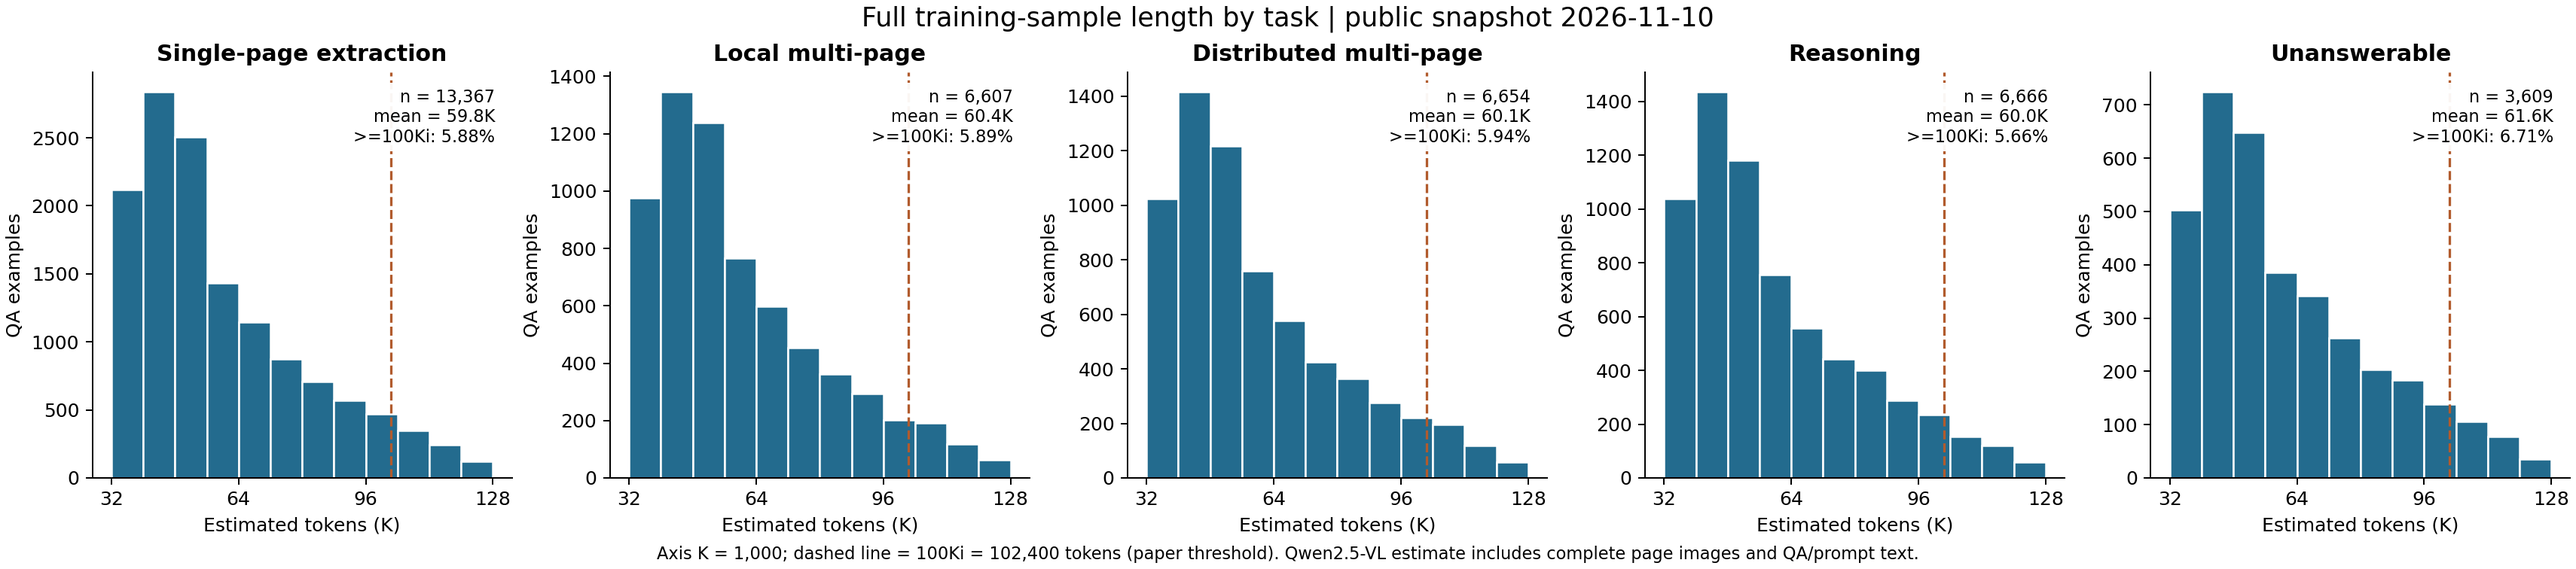
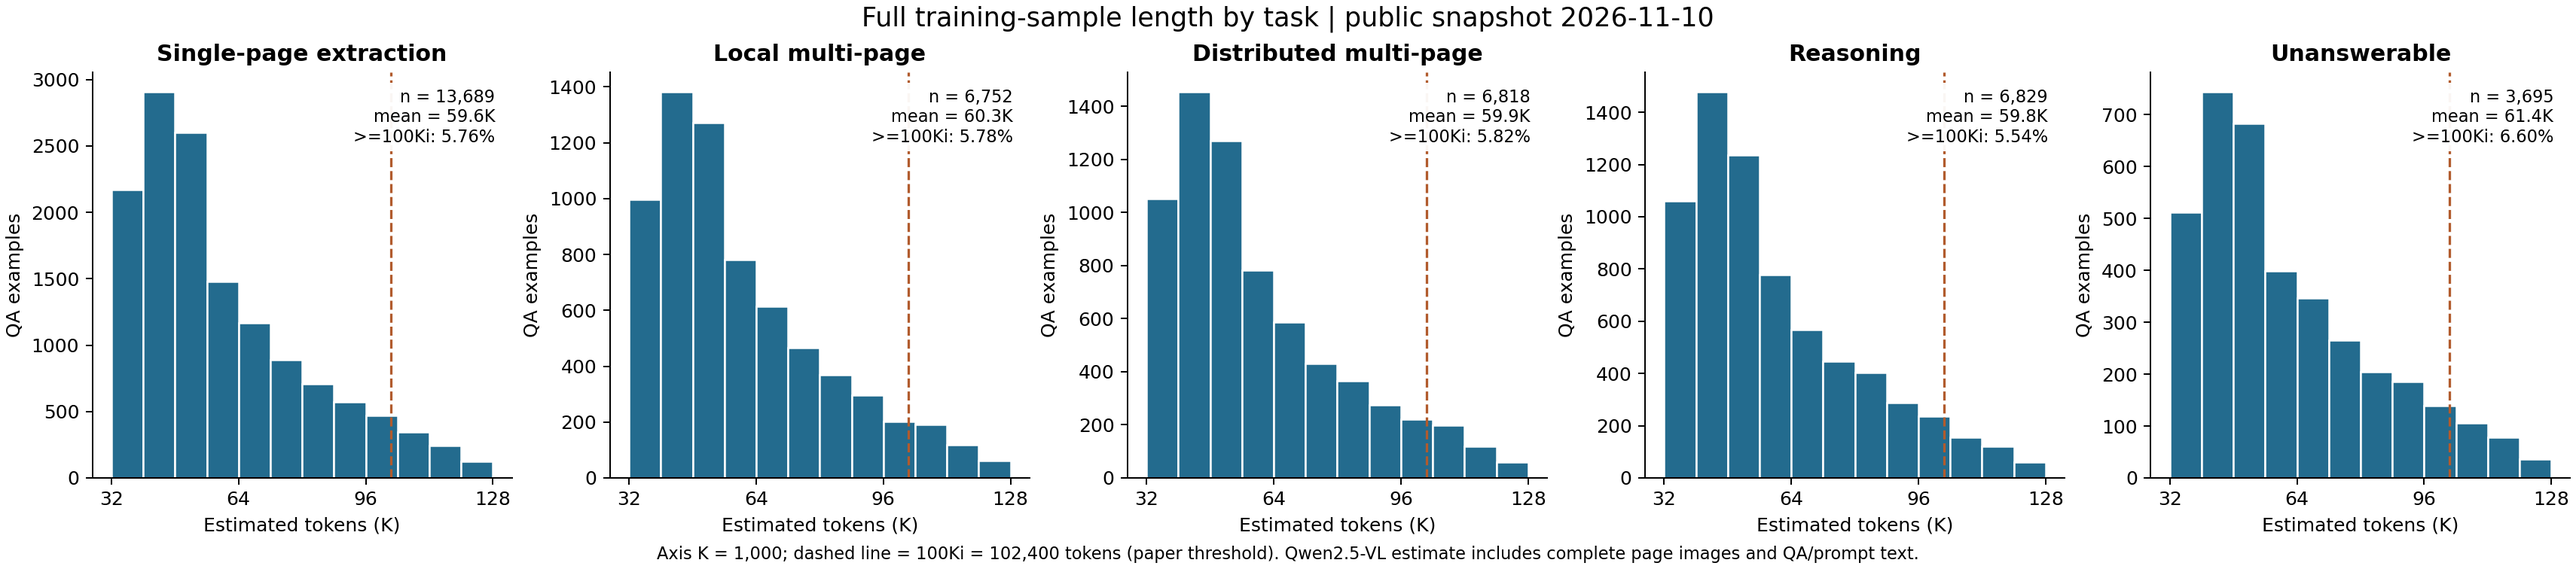
Update public corpus statistics to 2.267B measured tokens

diff --git a/docs/public_dataset.md b/docs/public_dataset.md
@@ -13,26 +13,26 @@ This page describes the admitted public snapshot identified below. It is a separ
 The manuscript defines binary prefixes (K=1024, B=2^30). Public tables use decimal K=1,000 and B=1,000,000,000; the >=100Ki statistic uses 102,400 to match the paper threshold. Exact raw counts and per-document labels are published with the dataset.
 
 <!-- PUBLIC_CORPUS_STATS_START -->
-**Public snapshot (2026-11-10): 36,903 QA examples, 6,949 source PDFs, 159,098 unique page images, and 2,220,596,718 estimated training tokens (approximately 2.221B).**
+**Public snapshot (2026-11-10): 37,783 QA examples, 7,450 source PDFs, 169,520 unique page images, and 2,266,988,794 estimated training tokens (approximately 2.267B).**
 
-[This published snapshot](https://huggingface.co/datasets/ZhaoweiWang/MMProLong-Data-Public/tree/01fedbbd569eb5d85a049d7fc96de157c3b404a0); [latest data](https://huggingface.co/datasets/ZhaoweiWang/MMProLong-Data-Public).
+[This published snapshot](https://huggingface.co/datasets/ZhaoweiWang/MMProLong-Data-Public/tree/e3038ec88dcd8939afb35d8c41555d52ef2673d3); [latest data](https://huggingface.co/datasets/ZhaoweiWang/MMProLong-Data-Public).
 
 ### Corpus scale
 
 | Statistic | Public snapshot value |
 | --- | --- |
-| Admitted unique PDFs | 6,949 |
+| Admitted unique PDFs | 7,450 |
 | Document family | Public research papers |
-| Unique rendered page images | 159,098 |
-| Document pages: mean / median | 22.90 / 21 |
-| Document pages: range / 5th-95th percentile | 14-50 / 14-40 |
-| Admitted QA examples | 36,903 |
-| Estimated training tokens | 2,220,596,718 (2.221B) |
-| Per-QA tokens: mean / median | 60.174K / 53.313K |
+| Unique rendered page images | 169,520 |
+| Document pages: mean / median | 22.75 / 21 |
+| Document pages: range / 5th-95th percentile | 14-50 / 14-39 |
+| Admitted QA examples | 37,783 |
+| Estimated training tokens | 2,266,988,794 (2.267B) |
+| Per-QA tokens: mean / median | 60.000K / 53.296K |
 | Observed token range | 33,547-125,503 |
-| At least 100,000 tokens | 2,609 (7.07%) |
-| At least 100Ki = 102,400 tokens (paper threshold) | 2,189 (5.93%) |
-| Page references across all QA contexts | 874,074 |
+| At least 100,000 tokens | 2,618 (6.93%) |
+| At least 100Ki = 102,400 tokens (paper threshold) | 2,198 (5.82%) |
+| Page references across all QA contexts | 892,361 |
 
 ### Document sources
 
@@ -40,7 +40,7 @@ The manuscript defines binary prefixes (K=1024, B=2^30). Public tables use decim
 | --- | --- |
 | arxiv | 4,386 |
 | elife | 20 |
-| plos | 2,543 |
+| plos | 3,044 |
 
 Tokens are the stored Qwen2.5-VL serialized-sample estimate, including full page-image context and QA/prompt text. A PDF used by several questions contributes its context repeatedly to the training-token total. This is not a count of unique-text tokens or billed API tokens. Page images are physically stored once per document.
 
@@ -50,12 +50,12 @@ Tokens are the stored Qwen2.5-VL serialized-sample estimate, including full page
 
 | Task | QA | Avg. pages | Avg. K tokens | B tokens | Pages | K-token range | >=100Ki |
 | --- | --- | --- | --- | --- | --- | --- | --- |
-| `single` | 13,367 | 23.55 | 59.81 | 0.799 | 14-50 | 33.80-125.13 | 5.88% |
-| `multi_local` | 6,607 | 23.76 | 60.44 | 0.399 | 14-50 | 33.85-125.50 | 5.89% |
-| `multi_distributed` | 6,654 | 23.63 | 60.08 | 0.400 | 14-50 | 33.84-125.29 | 5.94% |
-| `reasoning` | 6,666 | 23.62 | 59.98 | 0.400 | 14-50 | 33.55-125.11 | 5.66% |
-| `unanswerable` | 3,609 | 24.25 | 61.56 | 0.222 | 14-50 | 33.79-125.09 | 6.71% |
-| **Total** | 36,903 | 23.69 | 60.17 | 2.221 | 14-50 | 33.55-125.50 | 5.93% |
+| `single` | 13,689 | 23.49 | 59.64 | 0.816 | 14-50 | 33.80-125.13 | 5.76% |
+| `multi_local` | 6,752 | 23.72 | 60.33 | 0.407 | 14-50 | 33.85-125.50 | 5.78% |
+| `multi_distributed` | 6,818 | 23.55 | 59.87 | 0.408 | 14-50 | 33.84-125.29 | 5.82% |
+| `reasoning` | 6,829 | 23.55 | 59.78 | 0.408 | 14-50 | 33.55-125.11 | 5.54% |
+| `unanswerable` | 3,695 | 24.18 | 61.38 | 0.227 | 14-50 | 33.79-125.09 | 6.60% |
+| **Total** | 37,783 | 23.62 | 60.00 | 2.267 | 14-50 | 33.55-125.50 | 5.82% |
 
 `K = 1,000`, `B = 1,000,000,000`; `100Ki = 102,400` tokens. Average pages in this table are **QA-weighted**, whereas the corpus-scale document average counts each PDF once. The two multi-page rows may be combined for comparison with the paper's broader extraction category. Unanswerable QA is an additional public-data task. Exact values, quantiles, and the combined task grouping are in [`metadata/statistics.json`](https://huggingface.co/datasets/ZhaoweiWang/MMProLong-Data-Public/blob/main/metadata/statistics.json).
 
@@ -65,17 +65,17 @@ Tokens are the stored Qwen2.5-VL serialized-sample estimate, including full page
 
 | Primary domain | Documents | Document share | QA | QA share |
 | --- | --- | --- | --- | --- |
-| Physics | 1,322 | 19.02% | 9,284 | 25.16% |
-| Mathematics | 1,231 | 17.71% | 8,816 | 23.89% |
-| Computer Science | 1,209 | 17.40% | 9,082 | 24.61% |
-| Biology | 631 | 9.08% | 1,316 | 3.57% |
-| Medicine | 573 | 8.25% | 1,415 | 3.83% |
-| Social Science | 544 | 7.83% | 1,478 | 4.01% |
-| Economics | 542 | 7.80% | 1,481 | 4.01% |
-| Engineering | 531 | 7.64% | 2,972 | 8.05% |
-| Earth Science | 346 | 4.98% | 960 | 2.60% |
-| Language and Literature | 12 | 0.17% | 43 | 0.12% |
-| Other | 8 | 0.12% | 56 | 0.15% |
+| Physics | 1,322 | 17.74% | 9,284 | 24.57% |
+| Mathematics | 1,235 | 16.58% | 8,823 | 23.35% |
+| Computer Science | 1,229 | 16.50% | 9,119 | 24.14% |
+| Biology | 716 | 9.61% | 1,457 | 3.86% |
+| Medicine | 659 | 8.85% | 1,561 | 4.13% |
+| Economics | 638 | 8.56% | 1,651 | 4.37% |
+| Social Science | 636 | 8.54% | 1,640 | 4.34% |
+| Engineering | 629 | 8.44% | 3,153 | 8.35% |
+| Earth Science | 365 | 4.90% | 994 | 2.63% |
+| Language and Literature | 12 | 0.16% | 43 | 0.11% |
+| Other | 9 | 0.12% | 58 | 0.15% |
 
 Document and QA shares differ because historical phases generated different numbers of questions per PDF. Domain labels describe the source PDF, not a separate topic inferred for each question.
 
@@ -83,21 +83,21 @@ Document and QA shares differ because historical phases generated different numb
 
 | Answer format | QA | Share |
 | --- | --- | --- |
-| Integer | 5,549 | 15.04% |
-| Float | 2,265 | 6.14% |
-| List | 12,582 | 34.09% |
-| String | 12,898 | 34.95% |
-| Unanswerable | 3,609 | 9.78% |
+| Integer | 5,668 | 15.00% |
+| Float | 2,423 | 6.41% |
+| List | 12,928 | 34.22% |
+| String | 13,069 | 34.59% |
+| Unanswerable | 3,695 | 9.78% |
 
-There are **33,294 answerable** and **3,609 unanswerable** QA examples. The observed necessary-evidence page counts are: 0 pages: 3,609, 1 pages: 16,799, 2 pages: 11,123, 3 pages: 4,250, 4 pages: 1,115, 5 pages: 5, 6 pages: 1, 7 pages: 1.
+There are **34,088 answerable** and **3,695 unanswerable** QA examples. The observed necessary-evidence page counts are: 0 pages: 3,695, 1 pages: 17,198, 2 pages: 11,408, 3 pages: 4,329, 4 pages: 1,145, 5 pages: 5, 6 pages: 2, 7 pages: 1.
 
 <details>
 <summary>Observed QA count per source document</summary>
 
 | QA per document | Documents |
 | --- | --- |
-| 1 | 705 |
-| 2 | 3,837 |
+| 1 | 827 |
+| 2 | 4,216 |
 | 6 | 1 |
 | 8 | 1 |
 | 9 | 7 |
@@ -115,8 +115,8 @@ The 20-QA documents belong to the initial pilot; the two-QA limit applies to the
 | Recorded method | QA |
 | --- | --- |
 | legacy_full_document | 32,432 |
-| released_prompt_window_v1 | 2,799 |
-| document_tool_agent_v1 | 1,672 |
+| released_prompt_window_v1 | 3,347 |
+| document_tool_agent_v1 | 2,004 |
 
 ### Domain-label provenance
 
@@ -125,18 +125,18 @@ The 20-QA documents belong to the initial pilot; the two-QA limit applies to the
 | majority of full-context generator domain labels | 4,330 |
 | arXiv primary category mapping | 113 |
 | manual primary-topic classification for validated pilot batches | 9 |
-| majority of independent full-document verifier topic labels | 2,432 |
-| Crossref subject-query sampling; provisional until generator topic vote | 65 |
+| majority of independent full-document verifier topic labels | 2,921 |
+| Crossref subject-query sampling; provisional until generator topic vote | 77 |
 
 ## Document language
 
 | Estimated document language | Documents | Document share | Associated QA |
 | --- | --- | --- | --- |
-| English (`en`) | 6,944 | 99.928% | 36,863 |
-| Spanish (`es`) | 2 | 0.029% | 14 |
-| French (`fr`) | 1 | 0.014% | 2 |
-| Russian (`ru`) | 1 | 0.014% | 12 |
-| Chinese (`zh`) | 1 | 0.014% | 12 |
+| English (`en`) | 7,445 | 99.933% | 37,743 |
+| Spanish (`es`) | 2 | 0.027% | 14 |
+| French (`fr`) | 1 | 0.013% | 2 |
+| Russian (`ru`) | 1 | 0.013% | 12 |
+| Chinese (`zh`) | 1 | 0.013% | 12 |
 
 Language labels are automatic estimates from sampled embedded PDF text; non-English/uncertain predictions receive a prose-filter recheck. They are not human-verified. Method, sampled pages, scores and recheck provenance are retained with each document.
 
@@ -144,14 +144,14 @@ Language labels are automatic estimates from sampled embedded PDF text; non-Engl
 
 | Recorded generation model | Documents | QA | QA share | B training tokens |
 | --- | --- | --- | --- | --- |
-| `gpt-5.5-2026-04-24` | 2,407 | 28,524 | 77.29% | 1.745 |
-| `gpt-5.6-sol` | 4,542 | 8,379 | 22.71% | 0.476 |
+| `gpt-5.5-2026-04-24` | 2,407 | 28,524 | 75.49% | 1.745 |
+| `gpt-5.6-sol` | 5,043 | 9,259 | 24.51% | 0.522 |
 
 | Phase | Documents | QA | Maximum QA per document |
 | --- | --- | --- | --- |
 | Initial pilot (GPT-5.5) | 4 | 80 | 20 |
 | GPT-5.5 production | 2,403 | 28,444 | 12 |
-| Current GPT-5.6 production | 4,542 | 8,379 | 2 |
+| Current GPT-5.6 production | 5,043 | 9,259 | 2 |
 
 The current snapshot is a **mixed-model historical release**, not an all-GPT-5.6 corpus. Use the `model` field when a model-specific subset is required.
 

diff --git a/README.md b/README.md
@@ -40,7 +40,7 @@ Please check out the [paper](https://arxiv.org/abs/2605.13831) for the study and
 ## 📢 Latest Updates
 
 <!-- PUBLIC_CORPUS_SUMMARY_START -->
-**Public snapshot (2026-11-10): 36,903 QA examples, 6,949 source PDFs, 159,098 unique page images, and 2,220,596,718 estimated training tokens (approximately 2.221B).**
+**Public snapshot (2026-11-10): 37,783 QA examples, 7,450 source PDFs, 169,520 unique page images, and 2,266,988,794 estimated training tokens (approximately 2.267B).**
 
 [Dataset](https://huggingface.co/datasets/ZhaoweiWang/MMProLong-Data-Public) | [Statistics](docs/public_dataset.md)
 <!-- PUBLIC_CORPUS_SUMMARY_END -->
